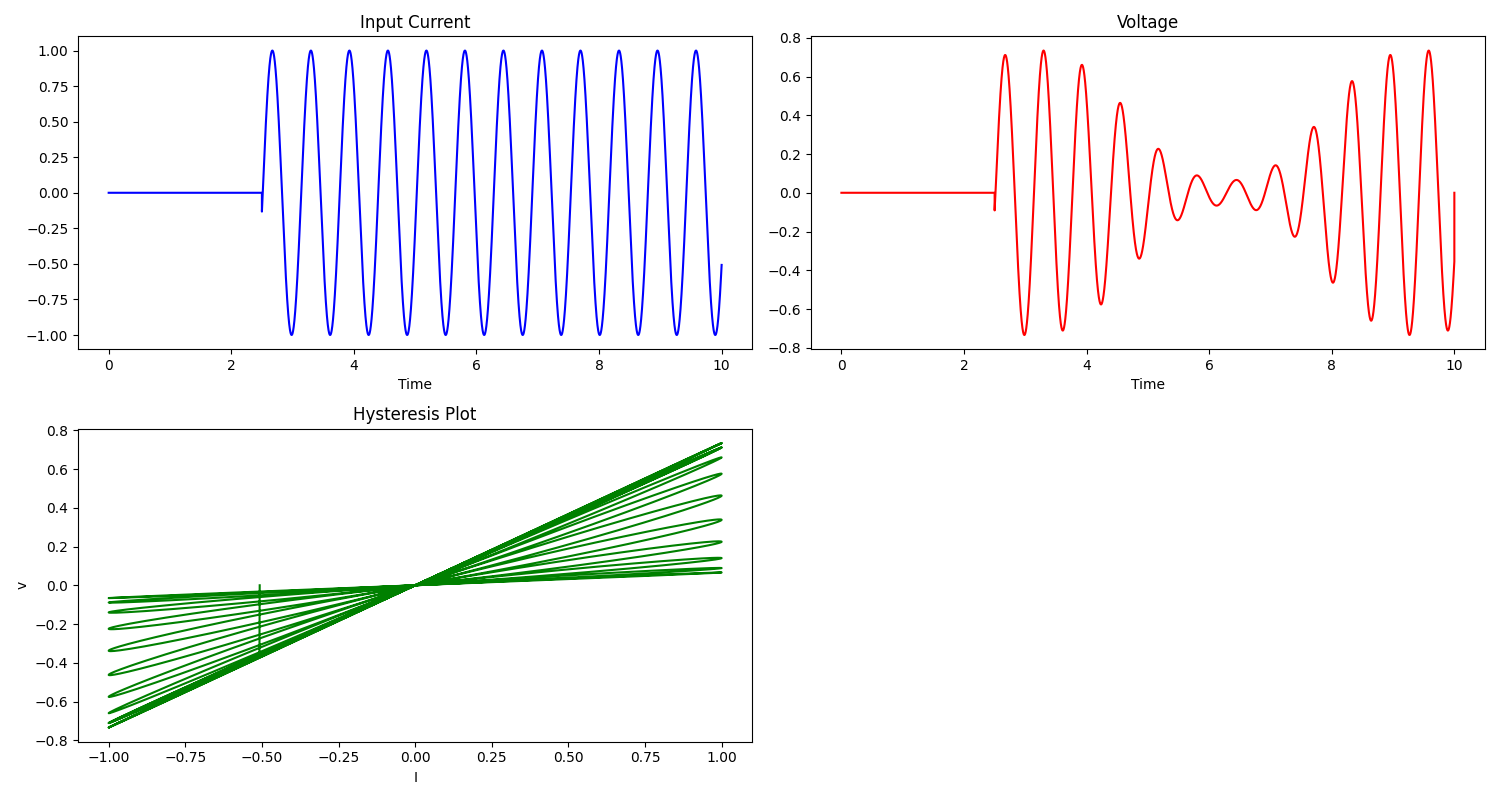
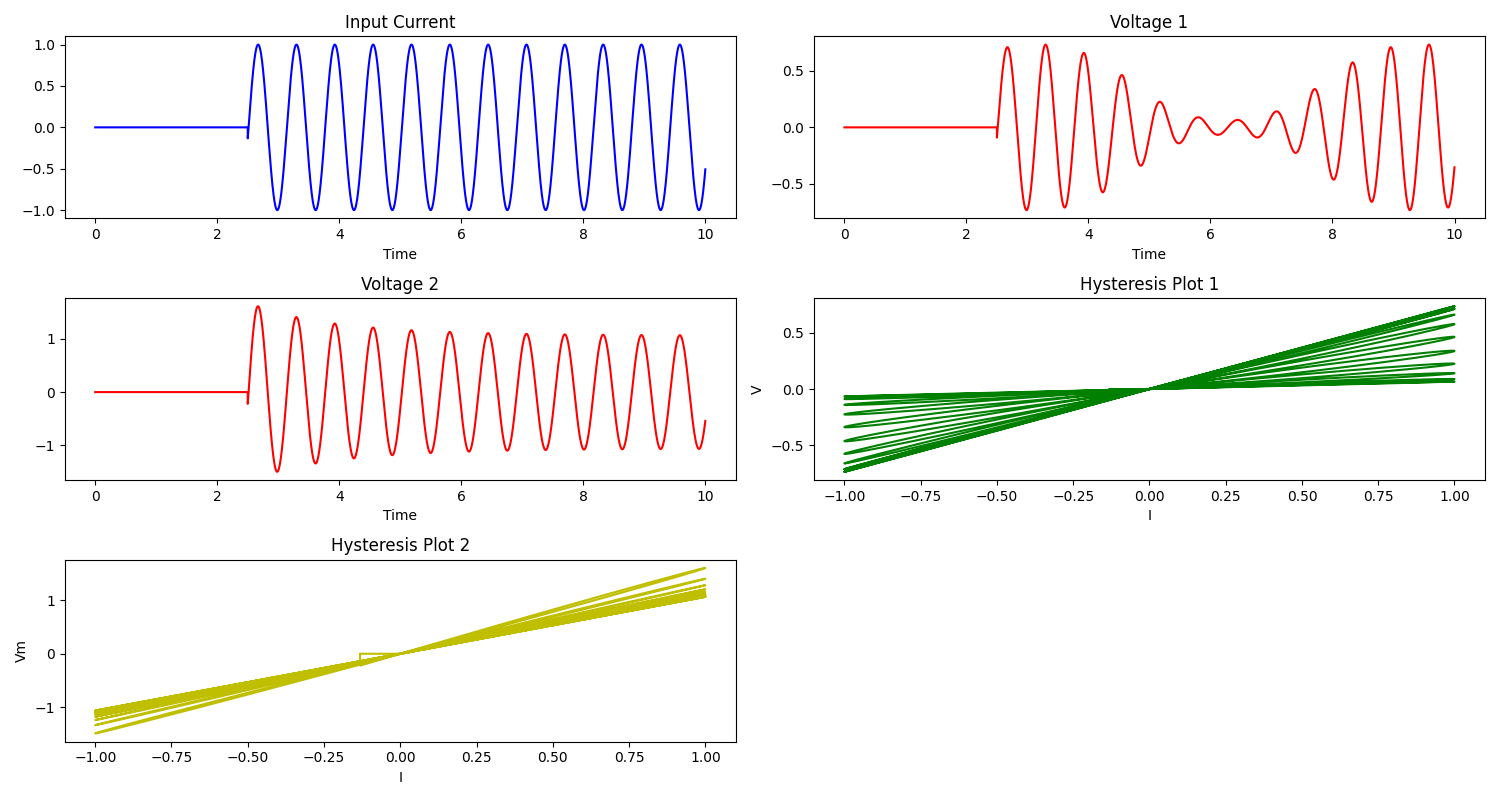
Added plots of both hysterisis curves and voltages for HH model

diff --git a/HHmodel/QSim_Mem.py b/HHmodel/QSim_Mem.py
@@ -52,17 +52,17 @@ if __name__ == "__main__":
     b = np.pi/5
     m = 1
     h = 1
-    w = 1
+    w_m = 1
     y0 = 0.4
 
-    mem = num_memristor.memristor(y0, w, h, m, a, b)
+    mem = num_memristor.memristor(y0, w_m, h, m, a, b)
 
     # Voltage
-    Vol = np.zeros(len(ts))
-    Vol[0] = mem.gamma(ts[0]) * I[0]
-
     Vm = np.zeros(len(ts))
     Vm[0] = qhh.V(Zk[0], ZNa[0], ZL, Zout, I0[0], w[0], ts[0], Cc, Cr)
+
+    Vol = np.zeros(len(ts))
+    Vol[0] = mem.gamma(ts[0]) * I[0]
 
     # Shape: (100000, 1)
     # print('Voltage Shape: ', Vm.shape)
@@ -99,25 +99,29 @@ if __name__ == "__main__":
 
     plt.figure(figsize=(15, 8))
 
-    plt.subplot(2, 2, 1)
+    plt.subplot(3, 2, 1)
     plt.plot(ts, I, 'b')
     plt.title("Input Current")
     plt.xlabel('Time')
     # plt.ylabel('Current <I>')
 
-    plt.subplot(2, 2, 2)
-    plt.plot(ts, Vm, 'r')
-    plt.title("Voltage")
+    plt.subplot(3, 2, 2)
+    plt.plot(ts, Vol, 'r')
+    plt.title("Voltage 1")
     plt.xlabel('Time')
-    # plt.ylabel('Voltage <V>')
 
-    plt.subplot(2, 2, 3)
+    plt.subplot(3, 2, 3)
+    plt.plot(ts, Vm, 'r')
+    plt.title("Voltage 2")
+    plt.xlabel('Time')
+
+    plt.subplot(3, 2, 4)
     plt.plot(I, Vol, 'g')
     plt.xlabel('I')
     plt.ylabel('V')
     plt.title('Hysteresis Plot 1')
 
-    plt.subplot(2, 2, 4)
+    plt.subplot(3, 2, 5)
     plt.plot(I, Vm, 'y')
     plt.xlabel('I')
     plt.ylabel('Vm')
